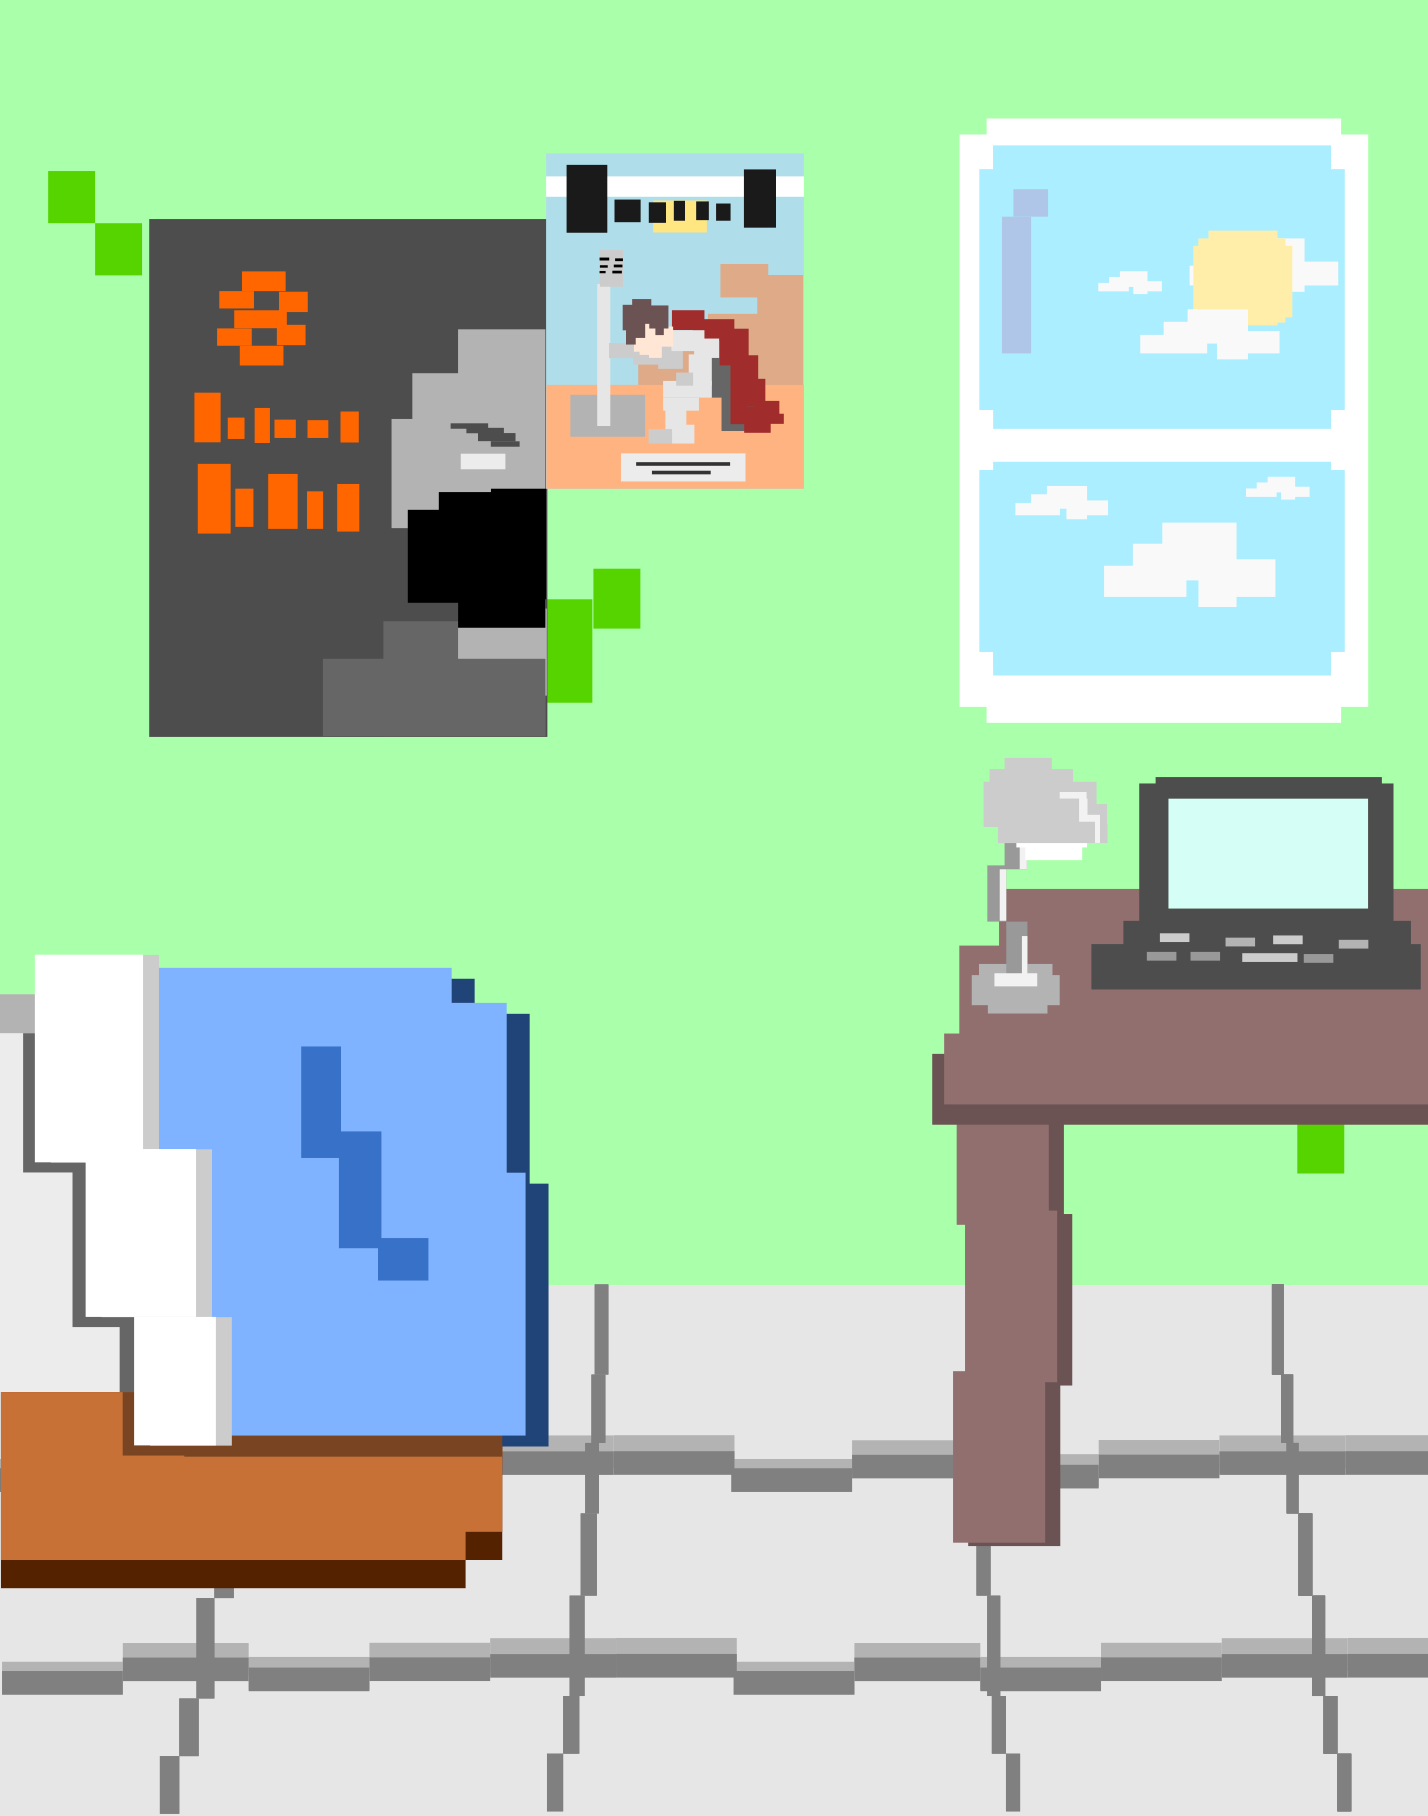
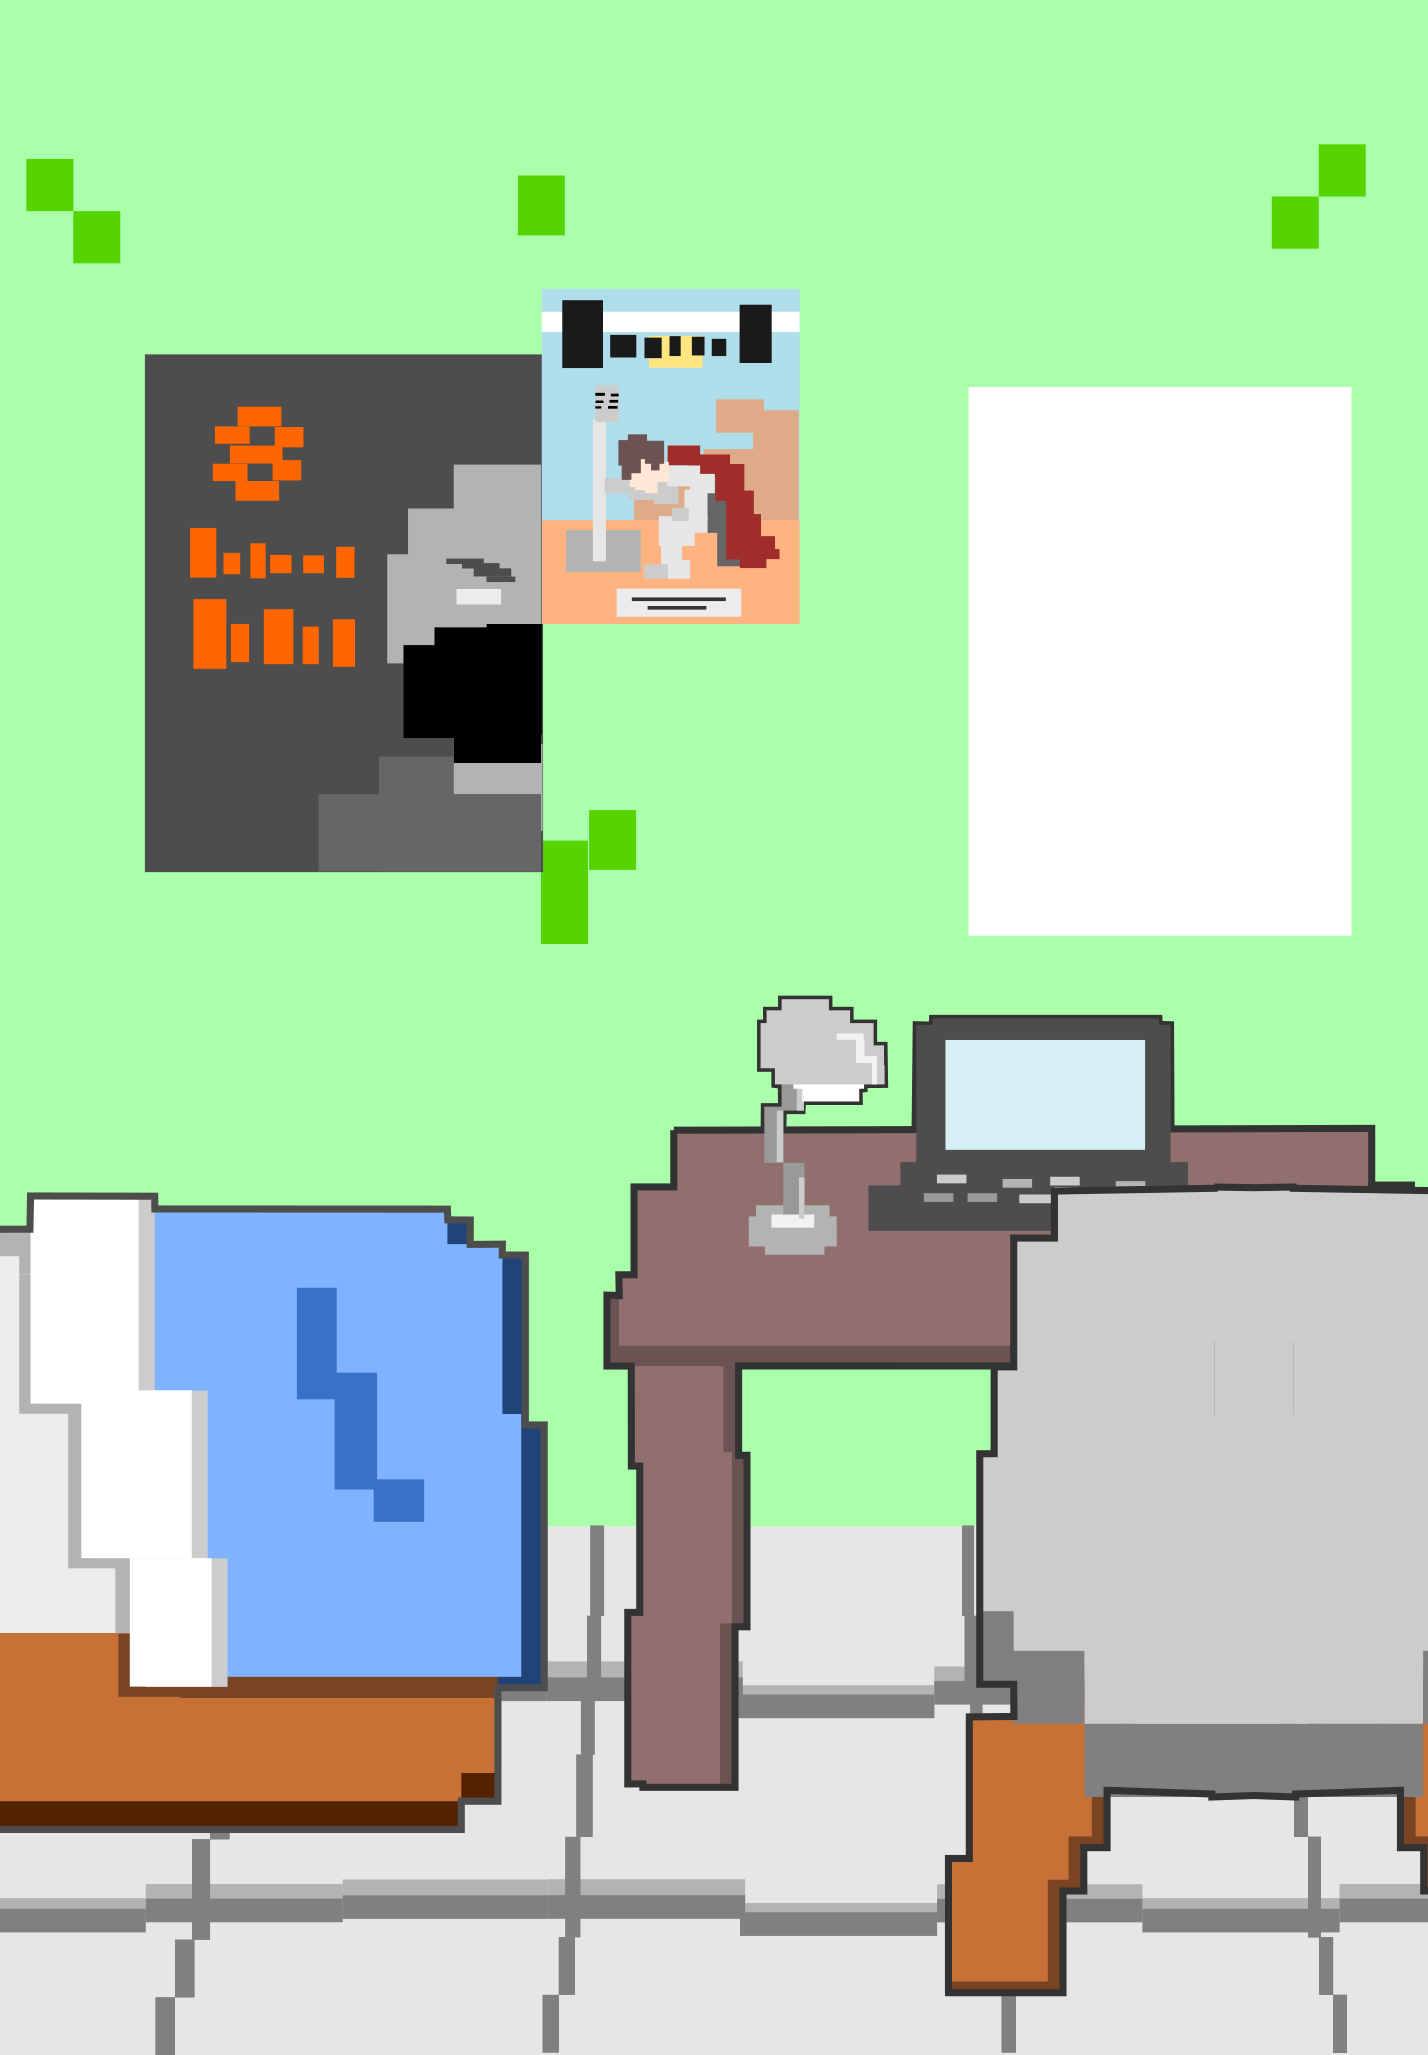
feat moving bg

diff --git a/src/components/HeaderComponent/style.ts b/src/components/HeaderComponent/style.ts
@@ -1,13 +1,12 @@
 import styled from 'styled-components';
 
 export const HeaderWrapper = styled.div`
-    width: 100%;
-    height: 11vw;
+    height: 16vw;
+    width: 65vw;
     flex: 1;
     display: flex;
     position: absolute;
     z-index: 9;
-    width: 44vw;
     top: -5px;
     right: -5px;
     flex-direction: row;
@@ -21,8 +20,8 @@ export const HeaderWrapper = styled.div`
     }
 
     @media (min-width: 500px) {
-      height: 58px;
-      width: 240px;
+      height: 85px;
+      width: 327px;
     }
 `;
 
@@ -40,9 +39,9 @@ export const DateWrapper = styled.div`
 
 export const WeatherComp = styled.img`
   background: red;
-  width: 11vw;
+  width: 16vw;
   @media (min-width: 500px) {
-    width: 58px;
+    width: 85px;
   }
 `;
 
@@ -52,9 +51,9 @@ export const DateComp = styled.div`
   justify-content: center;
   background: darkblue;
   color: white;
-  font-size: 4vw;
+  font-size: 6vw;
   @media (min-width: 500px) {
-    font-size: 23px;
+    font-size: 32px;
   }
 `;
 
@@ -65,24 +64,25 @@ export const TimeComp = styled.div`
   align-items: center;
   justify-content: center;
   font-family: Watch, Arial, serif !important;
+  font-size: 5vw;
   @media (min-width: 500px) {
       width: 53px;
-      font-size: 19px;
+      font-size: 25px;
   }
 `;
 
 export const MoneyComp = styled.div`
   flex:1;
-  background: black;
+  background: linear-gradient(0deg, rgba(0,0,0,1) 0%, rgba(24,28,154,1) 53%);
   justify-content: end;
   color:white;
   align-items: center;
-  padding: 2px;
   opacity: 0.8;
-  font-size: 6vw;
-  padding-left: 2px;
-  height: 16px;
+  font-size: 8vw;
+
+  border-top: blue solid 2px;
+  padding-right: 12px;
   @media (min-width: 500px) {
-    font-size: 23px;
+    font-size: 39px;
   }
 `;

diff --git a/src/components/ScreenComponent/style.ts b/src/components/ScreenComponent/style.ts
@@ -1,4 +1,4 @@
-import styled from 'styled-components';
+import styled, { keyframes } from 'styled-components';
 
 interface IScreenWrapper {
     src:string;
@@ -7,7 +7,6 @@ interface IScreenWrapper {
 export const ScreenWrapper = styled.div`
     width: 100%;
     height: 11vw;
-    background: white;
     flex: 8;
     background-image: url(${(props: IScreenWrapper) => props.src});
     background-size: cover;
@@ -16,7 +15,41 @@ export const ScreenWrapper = styled.div`
     align-items: end;
     justify-content: center;
     margin-bottom: 11vw;
+    background-position: center bottom;
     @media (min-width: 500px) {
       margin-bottom: 56px;
     }
 `;
+
+export const WindowWrapper = styled.img`
+    width: 28vw;
+    position: absolute;
+    right: 5vw;
+    top: 21vw;
+    @media (min-width: 471px) {
+        top: 200px;
+    }
+`;
+
+
+const move = (to:string) => keyframes`
+  from { background-position: 0px; }
+  to { background-position: ${to}; }
+`
+
+export const SkyWrapper = styled.div`
+    position: absolute;
+    right: 3vw;
+    top: 6vw;
+    height: 54vw;
+    animation: ${move("241px")} 12s infinite linear;
+    background-image: url(${(props: IScreenWrapper) => props.src});
+    width: 40vw;
+    background-size: cover;
+    @media (min-width: 500px) {
+        right: 20px;
+        height: 331px;
+        width: 146px;
+    }
+`;
+

diff --git a/src/components/ScreenComponent/index.tsx b/src/components/ScreenComponent/index.tsx
@@ -1,7 +1,10 @@
 import React from 'react'
-import { ScreenWrapper } from './style';
-import room from '../../assets/room.png';
+import { ScreenWrapper, SkyWrapper, WindowWrapper } from './style';
+import roomN from '../../assets/windows/roomN.png';
+import roomS from '../../assets/windows/roomS.png';
 import PlayerComponent from '../PlayerComponent';
+import sky from '../../assets/windows/sky.png';
+import night from '../../assets/windows/skyNight.png';
 
 interface IScreenComponentProps {
     
@@ -9,9 +12,12 @@ interface IScreenComponentProps {
 
 const ScreenComponent = (props:IScreenComponentProps) => {
     return (
-        <ScreenWrapper src={room}>
-            <PlayerComponent />
-        </ScreenWrapper>
+        <React.Fragment>
+        <SkyWrapper src={night} />
+            <ScreenWrapper src={roomN}>
+                <PlayerComponent />
+            </ScreenWrapper>
+        </React.Fragment>
     )
 }
 

diff --git a/src/components/ConsoleComponent/style.ts b/src/components/ConsoleComponent/style.ts
@@ -21,6 +21,7 @@ export const ConsoleWrapper = styled.div`
     align-items: center;
     max-width: 470px;
     justify-content: space-between;
+    background: linear-gradient(0deg, rgba(44,80,255,1) 0%, rgba(24,27,121,1) 63%);
 `;
 
 export const ButtonWrapper = styled.div`
